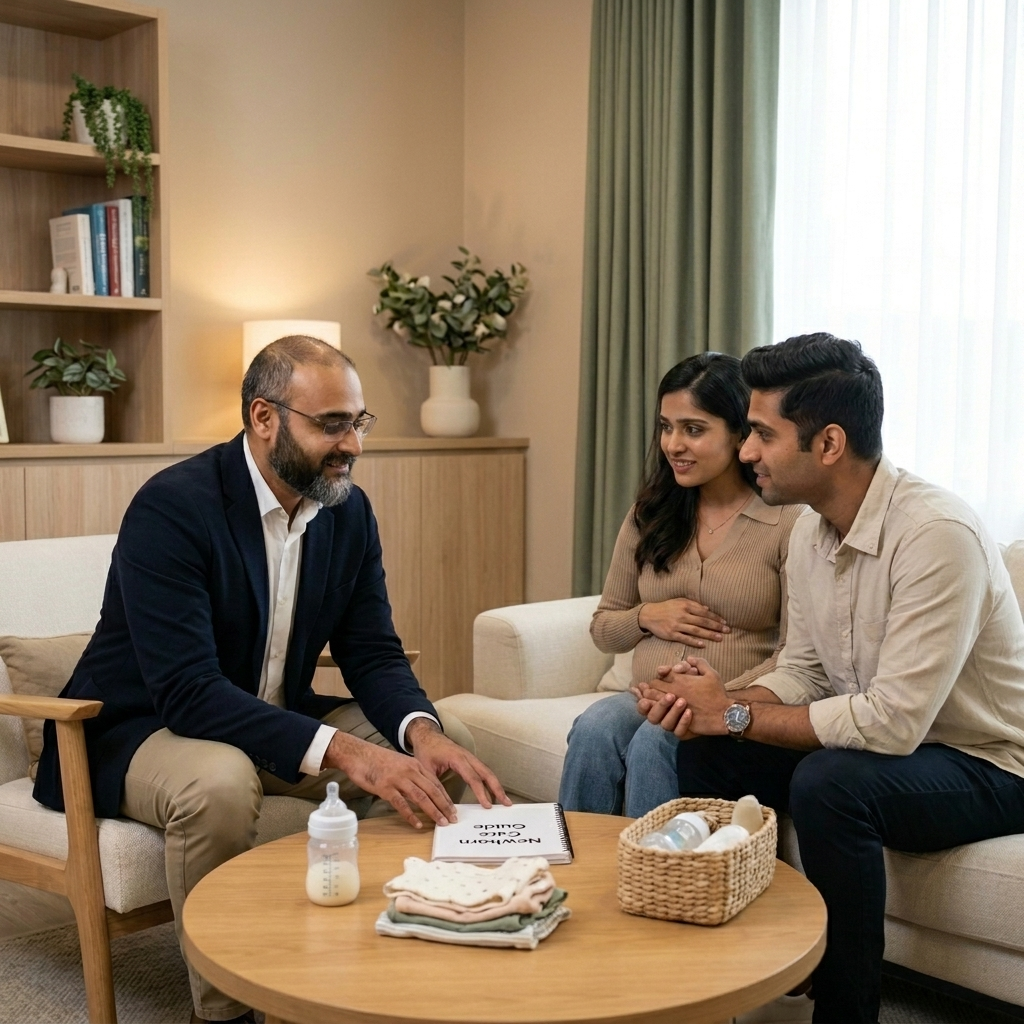
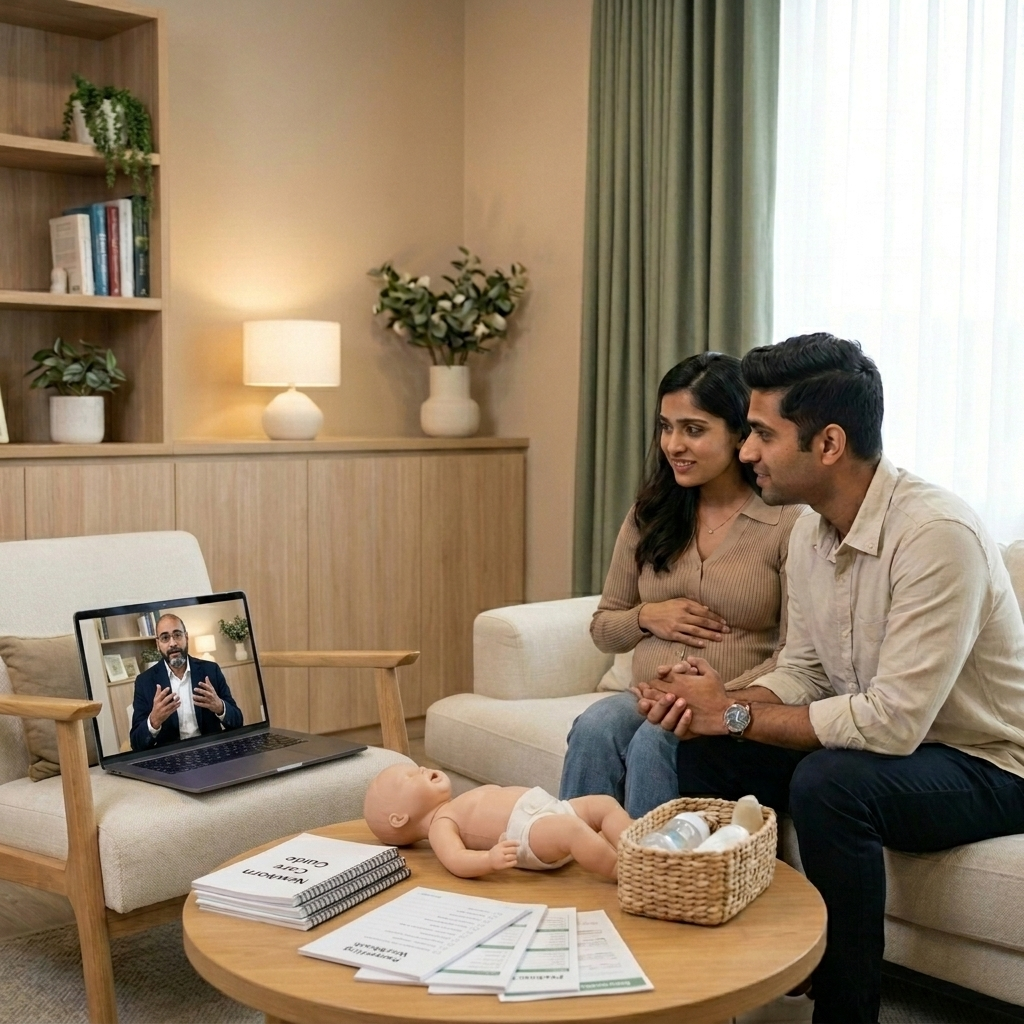
Fix mobile UI issues and update README

Changed region(s): [[0.0312, 0.3125, 0.6562, 1.0], [0.0938, 0.9062, 0.125, 1.0]]

diff --git a/style.css b/style.css
@@ -375,6 +375,18 @@ body {
   width: 65%;
 }
 
+@media (max-width: 900px) {
+  .hero-subtitle {
+    width: 85%;
+  }
+}
+
+@media (max-width: 600px) {
+  .hero-subtitle {
+    width: 95%;
+  }
+}
+
 /* Badges row */
 .hero-badges {
   display: flex;
@@ -1518,6 +1530,7 @@ body {
   text-shadow: 0 2px 10px rgba(0, 0, 0, 0.7);
   pointer-events: none;
   letter-spacing: 1.5px;
+  padding: 0 20px;
 }
 .founder-video-overlay-sub {
   font-family: var(--font);

diff --git a/README.md b/README.md
@@ -1,11 +1,11 @@
-# WebVeda Clone
+# Parentrics Team (Webveda Clone)
 
-A responsive, dynamic web application cloning the core functionality and design of WebVeda. Built using modern HTML, CSS, and Vanilla JavaScript without any heavy external frameworks.
+A responsive, dynamic web application designed to showcase pediatric and parent coaching services, originally inspired by the WebVeda design but tailored for Dr. Abhishek Tiwari and the Parentrics Team. Built using modern HTML, CSS, and Vanilla JavaScript without any heavy external frameworks.
 
-## Features
+## 🚀 Features
 
-- **Hero Section**: Animated UI elements with a custom "comet" particle effect around CTA buttons and video wrappers.
-- **Dynamic Course Carousel**: A horizontally scrollable list of course cards that dynamically filter based on categories.
+- **Hero Section**: Animated UI elements with dynamic typed text and a custom "comet" particle effect around CTA buttons and video wrappers.
+- **Dynamic Service Carousel**: A horizontally scrollable list of service/course cards that dynamically filter based on categories like "New Parents Guide" and "Consultation Sessions".
 - **Bento Grid Testimonials**: A responsive, 4-zone Bento box layout featuring:
   - Synchronized and independent card auto-rotation
   - Smooth cross-fade data transitions
@@ -13,26 +13,68 @@ A responsive, dynamic web application cloning the core functionality and design 
   - Floating avatars with randomized keyframe animations
   - A seamless auto-playing video element for visual proof
 - **Responsive Navigation**: Includes a mobile-first hamburger menu and sticky header effects.
+- **Responsive Design & Mobile Optimizations**: Tailored layouts for tablets and mobile devices to ensure readability and flawless UI across all screen sizes.
 
-## Technologies Used
+## 🛠️ Technologies Used
 
 - **HTML5**: Semantic tags and modern structuring.
 - **CSS3**: CSS Grid, Flexbox, keyframe animations, and custom CSS variables for easy theming.
 - **Vanilla JavaScript**: DOM manipulation, event listeners, interval timers, and IntersectionObservers for scroll-based animations.
 
-## Getting Started
+## 🏁 Getting Started
 
-Since this project uses pure HTML/CSS/JS, no build steps are required.
+Since this project uses pure HTML/CSS/JS, no build steps are required. 
 
 1. Clone this repository:
    ```bash
    git clone https://github.com/AnkitkCreation/webveda-clone.git
    ```
-2. Open `index.html` in your web browser of choice.
+2. Navigate into the project directory:
+   ```bash
+   cd webveda-clone
+   ```
+3. Open `index.html` in your web browser of choice, or use an extension like **Live Server** in VS Code for hot-reloading.
 
-## Folder Structure
+## 📂 Folder Structure
 
 - `index.html`: The main page structure.
 - `style.css`: All styling, layout grids, and animations.
 - `script.js`: Data logic, interval management, and interactivity.
 - `/assets`: Contains all images, SVGs, and videos used on the page.
+
+## 🤝 Contribution Guidelines
+
+We welcome contributions to make this project even better! If you'd like to contribute, please follow these steps:
+
+1. **Fork the repository** on GitHub.
+2. **Clone your fork** locally:
+   ```bash
+   git clone https://github.com/YOUR-USERNAME/webveda-clone.git
+   ```
+3. **Create a new branch** for your feature or bug fix:
+   ```bash
+   git checkout -b feature/your-awesome-feature
+   ```
+4. **Make your changes** and test them thoroughly.
+5. **Commit your changes** with descriptive commit messages:
+   ```bash
+   git commit -m "Add some awesome feature"
+   ```
+6. **Push to your fork**:
+   ```bash
+   git push origin feature/your-awesome-feature
+   ```
+7. **Open a Pull Request** on the original repository. Please provide a clear description of the changes you've made and the issue it resolves (if applicable).
+
+### Code Style
+- Use consistent indentation (2 spaces for HTML/JS/CSS).
+- Keep CSS classes semantic and grouped logically.
+- Add comments to JavaScript functions explaining their purpose.
+
+## 🐛 Bug Reports & Feature Requests
+
+If you encounter any bugs or have ideas for new features, please [open an issue](https://github.com/AnkitkCreation/webveda-clone/issues) on GitHub. Include as much detail as possible, such as steps to reproduce the bug or a clear description of the requested feature.
+
+## 📄 License
+
+This project is open-source and available under the [MIT License](LICENSE).